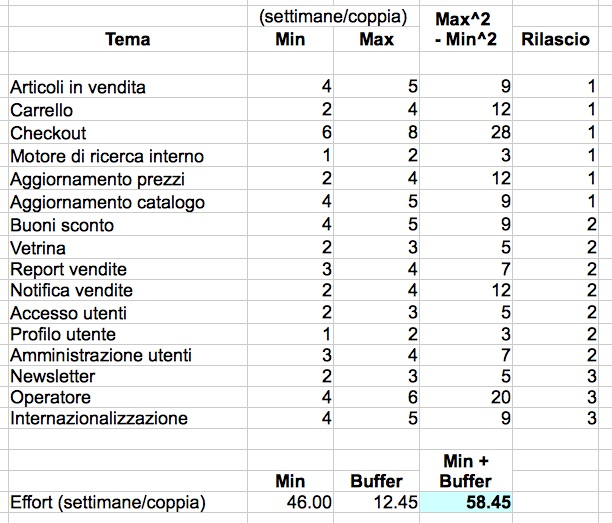
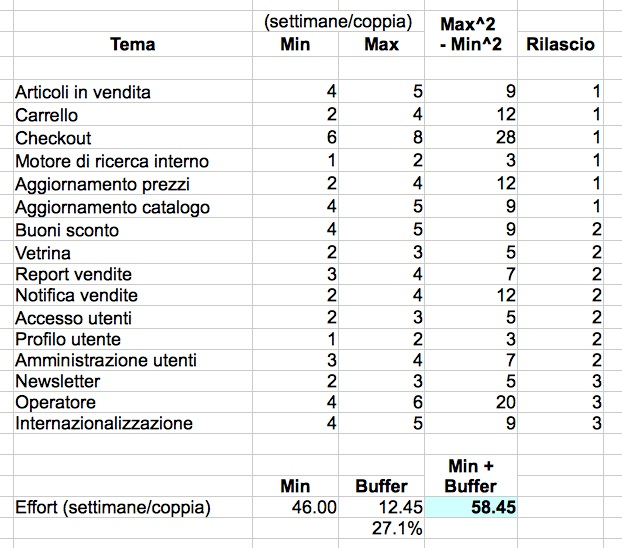
added percent on effort image

Changed region(s): [[0.0, 0.0, 1.0, 1.0]]

diff --git a/20121124-ExtremeProjectEvaluation/session.tex b/20121124-ExtremeProjectEvaluation/session.tex
@@ -234,8 +234,9 @@
 
 		   \end{column}
 		   \begin{column}{.5\textwidth}
+				\vspace*{-0.4cm}
 				\hspace*{-0.8cm} \includegraphics[scale=0.28]{images/effort} \\
-				\vspace*{0.4cm}
+				\vspace*{0.2cm}
 				{\small $ \sigma = \sqrt[2] { \sum \left ( max^{2} - min^{2} \right ) } $} \\
 				{\scriptsize M.Cohn, Agile Estimating and Planning}
 		   \end{column}
